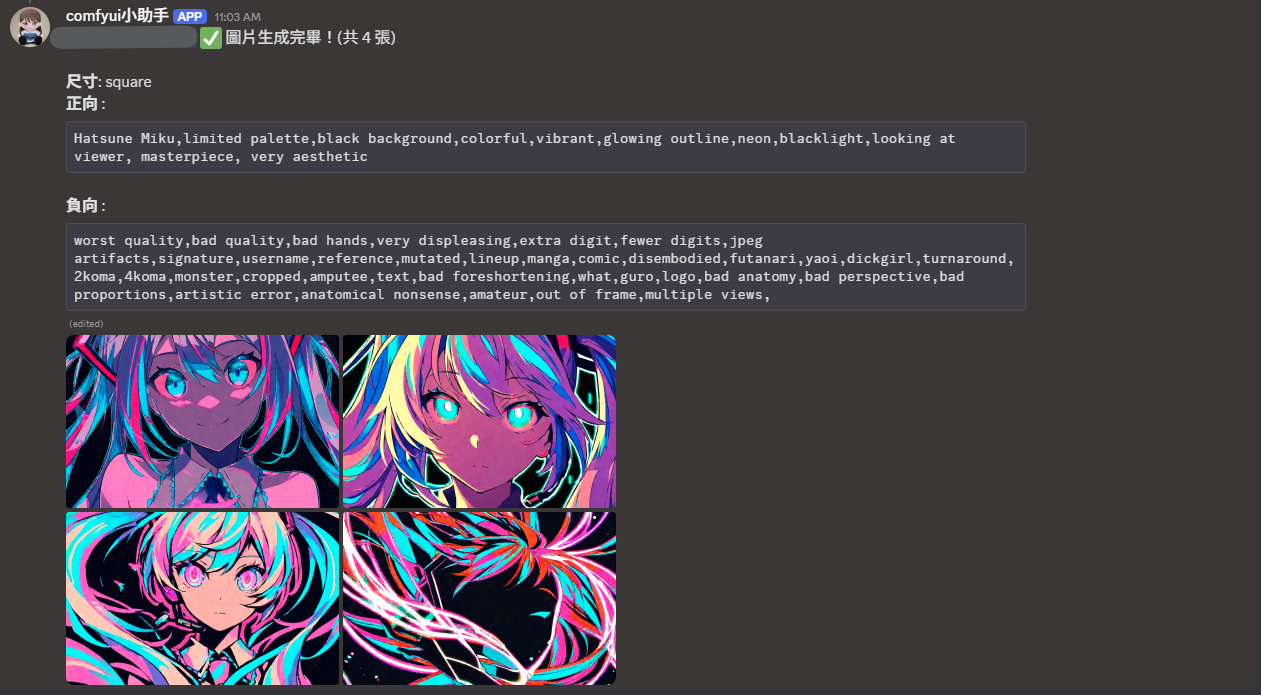
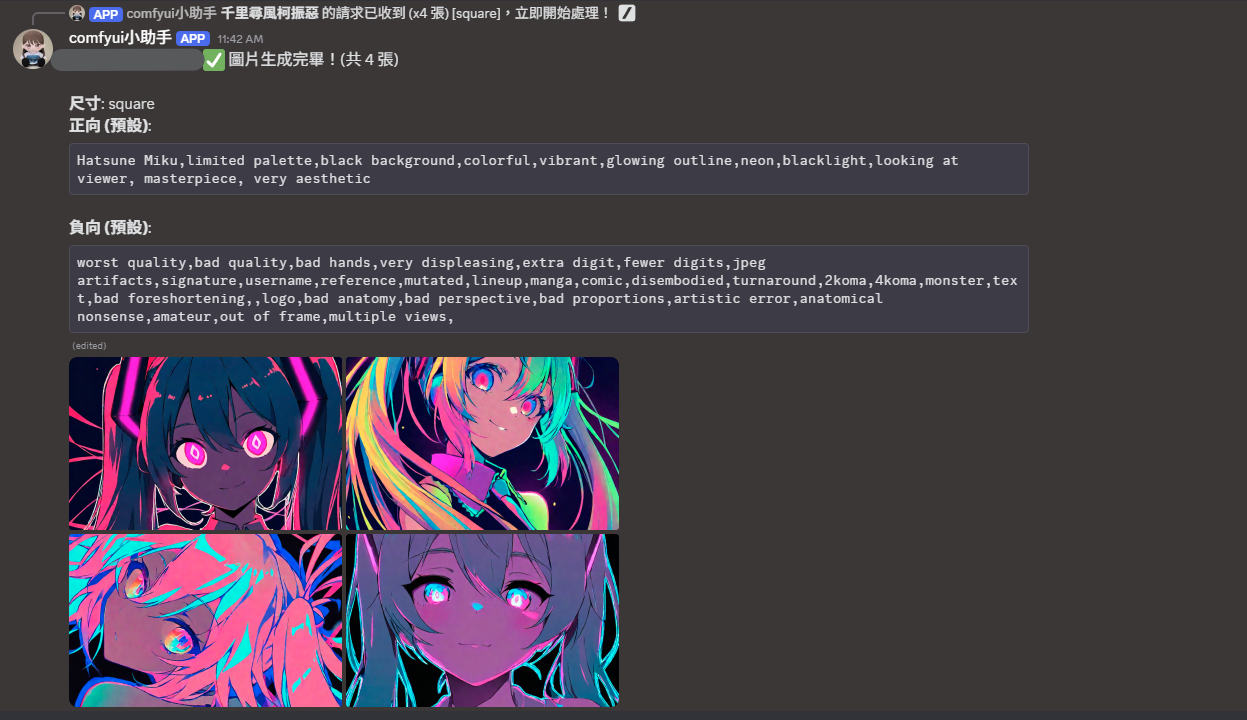
Update README.md

Changed region(s): [[0.0, 0.0, 0.8228, 0.9971]]

diff --git a/bot.py b/bot.py
@@ -63,7 +63,7 @@ IMAGE_SIZES = {
 
 DEFAULT_POSITIVE_PROMPT = """Hatsune Miku,limited palette,black background,colorful,vibrant,glowing outline,neon,blacklight,looking at viewer, masterpiece, very aesthetic"""
 
-DEFAULT_NEGATIVE_PROMPT = """worst quality,bad quality,bad hands,very displeasing,extra digit,fewer digits,jpeg artifacts,signature,username,reference,mutated,lineup,manga,comic,disembodied,futanari,yaoi,dickgirl,turnaround,2koma,4koma,monster,cropped,amputee,text,bad foreshortening,what,guro,logo,bad anatomy,bad perspective,bad proportions,artistic error,anatomical nonsense,amateur,out of frame,multiple views,"""
+DEFAULT_NEGATIVE_PROMPT = """worst quality,bad quality,bad hands,very displeasing,extra digit,fewer digits,jpeg artifacts,signature,username,reference,mutated,lineup,manga,comic,disembodied,turnaround,2koma,4koma,monster,text,bad foreshortening,,logo,bad anatomy,bad perspective,bad proportions,artistic error,anatomical nonsense,amateur,out of frame,multiple views,"""
 
 MAX_BATCH_SIZE = 4  # 最大批次生成數量
 
